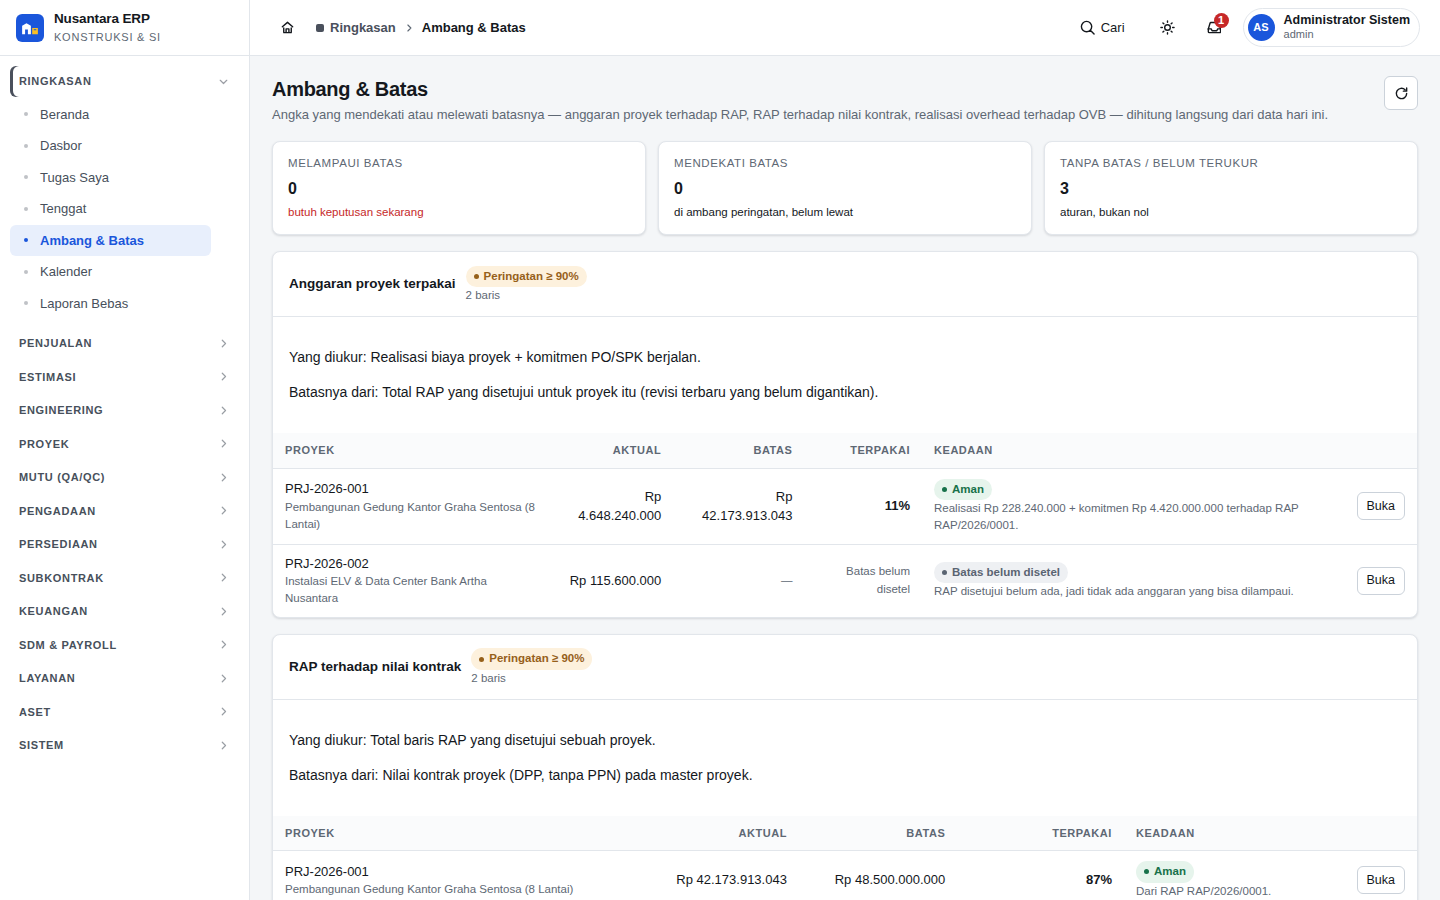
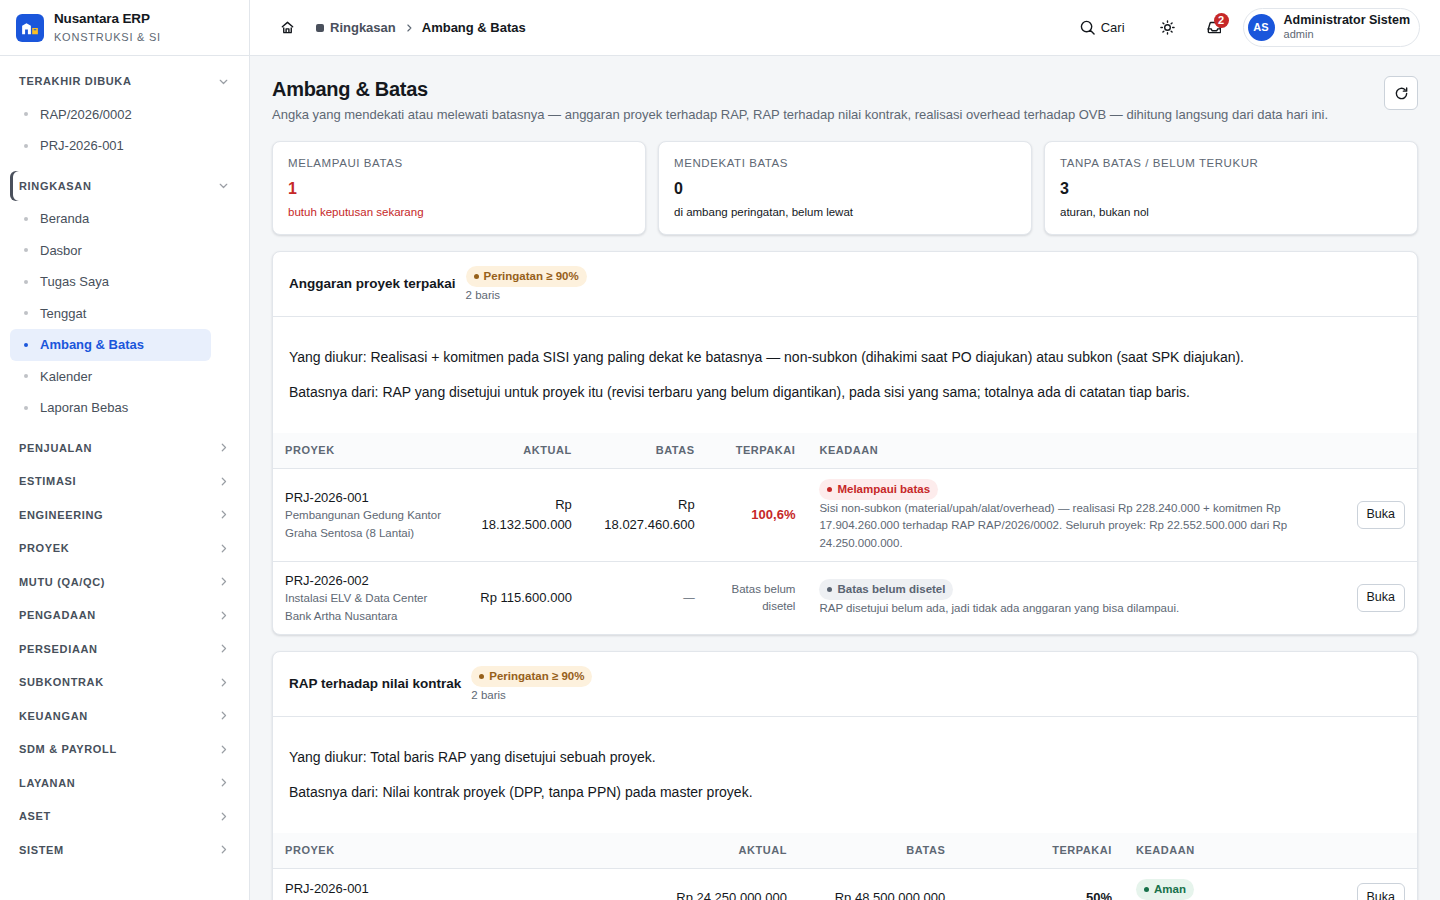
harness: S29 dijalankan ulang di peramban atas perbaikan putaran ini — 25/25 dan 3/3, dengan dua syarat yang kini menggerbangi keadaan yang benar (verifikasi F-2, 7 Sep 2026)
Dijalankan php -S port 8125 atas SALINAN CORETAN data demo (disalin lalu
dimigrasikan; database/database.sqlite tidak disentuh), Chromium 1440x900 dan
390x844. S29 22 -> 25 syarat, S29m 3/3, keduanya hijau; hasil DIGABUNG PER
KUNCI ke results-phase-2.json (12 kunci, S1..S11 dan S28 tetap utuh).

Dua syarat lama mengukur keadaan yang sudah tidak benar lagi:
- "the_portfolio_row_prints_the_remaining_the_gate_enforces" mencari "31,12 M";
  baris itu kini mencetak rupiah penuh, dan syaratnya mencari
  "PO Rp 31.123.865.391" — persis DPP yang diterima gerbang di langkah (1).
- "the_project_screen_raises_the_warning_strip" menuntut kelas "warn"; pada
  keadaan yang dibuat harness ini sendiri totalnya 93 % (mendekati) sementara
  sisi PO sudah 100,6 %, jadi pitanya kini MERAH. Syaratnya membandingkan
  kelas pita dengan worst_state yang dilaporkan API, ditambah syarat baru
  bahwa pitanya menyebut sisi yang dihakimi gerbang.

Tiga syarat baru: no_row_ships_a_fabricated_zero, and_it_names_the_side_the_gate_judges,
the_printed_monthly_sheet_names_its_project (media cetak sungguhan).

Diukur di peramban sesudah perbaikan (data demo):
- portofolio: Sisa "Rp 37.525.673.043 · PO Rp 31.123.865.391 · SPK
  Rp 6.401.807.652"; Terpakai 40,8 % dengan "sisi SPK · total 11%";
  PRJ-2026-002 Realisasi "—" (nol baris biaya), zero_cells [] pada kedua baris
- layar proyek sesudah komitmen: ubin MERAH "100,6 % · PO melampaui
  Rp 105.039.400" dan pita merah yang membuka dengan kalimat sisi PO
[…]

diff --git a/public/app/js/views/project.js b/public/app/js/views/project.js
@@ -368,6 +368,14 @@ function budgetTileNote(budget) {
     return `${worst.document} tidak dianggarkan RAP ${budget.rap_code}`;
   }
 
+  // Sisa negatif tidak dicetak sebagai "menyisakan −Rp 105 juta": kalimat pita
+  // di bawahnya menjepit sisa ke Rp 0 (tidak pernah menjanjikan sisa negatif),
+  // dan dua angka berbeda untuk satu hal di satu layar adalah cacat yang sama
+  // yang diperbaiki paket ini. Yang dicetak adalah pelampauannya.
+  if (Number(worst.remaining) < 0) {
+    return `${worst.document} melampaui ${fmt.rupiah(Math.abs(Number(worst.remaining)))} · RAP ${budget.rap_code}`;
+  }
+
   return `${worst.document} menyisakan ${fmt.rupiah(worst.remaining)} · RAP ${budget.rap_code}`;
 }
 

diff --git a/docs/bukti-uji/harness-playwright.py b/docs/bukti-uji/harness-playwright.py
@@ -6561,7 +6561,7 @@ def s29(pg):
     status, after = api("finance/budget/projects/1", admin)
     a = after.get("data") or {}
     out["threshold_fixture"] = {"dpp": target, "submit": s_sub, "approve": s_apr}
-    out["budget_after_commitment"] = {k: a.get(k) for k in ("budget", "used", "pct", "state")}
+    out["budget_after_commitment"] = {k: a.get(k) for k in ("budget", "used", "pct", "state", "worst_side", "worst_state")}
 
     # (6) PERINGATAN DI TEMPAT UANGNYA DIBELANJAKAN — layar proyek…
     pg.goto(BASE + "#/d/projects/1")
@@ -6609,8 +6609,11 @@ def s29(pg):
         "the_refusal_names_the_same_remaining": (
             "31.123.865.391" in (out["gate"]["over_limit_message"] or "")),
         # Kolom "Sisa" membawa TOTAL-nya, dan di bawahnya kedua sisi yang
-        # benar-benar dihakimi gerbang — angka PO yang diterima di atas.
-        "the_portfolio_row_prints_the_remaining_the_gate_enforces": any("31,12 M" in c for c in cells),
+        # benar-benar dihakimi gerbang — dalam RUPIAH PENUH, angka PO yang
+        # diterima di atas apa adanya (format ringkas membulatkan KE ATAS, dan
+        # sebuah plafon yang dibulatkan ke atas adalah janji yang ditolak).
+        "the_portfolio_row_prints_the_remaining_the_gate_enforces": any(
+            "PO Rp 31.123.865.391" in c for c in cells),
         "the_portfolio_row_names_the_governing_rap": any("RAP/2026/0001" in c for c in cells),
         # Proyek TANPA RAP disetujui tidak boleh punya satu pun angka anggaran:
         # RAP, Sisa dan Terpakai harus digaris, tidak pernah "Rp 0".
@@ -6661,8 +6664,17 @@ def s29(pg):
             out["threshold_fixture"]["submit"] == 200 and out["threshold_fixture"]["approve"] == 200),
         "the_project_screen_carries_the_budget_tile": (
             out["project_screen"]["budget_tile"] is not None),
+        # Pita peringatan menyala menurut SISI TERBURUK, bukan menurut total:
+        # pada keadaan yang dibuat harness ini totalnya 93 % (mendekati)
+        # sementara sisi PO sudah lewat 100 %, dan pita kuning di atas proyek
+        # yang setiap PO-nya ditolak adalah alarm yang berbohong tenang.
         "the_project_screen_raises_the_warning_strip": (
-            out["project_screen"]["warning"] is not None and "warn" in (out["project_screen"]["warning_class"] or "")),
+            out["project_screen"]["warning"] is not None
+            and ("error" if out["budget_after_commitment"]["worst_state"] == "lampau" else "warn")
+            in (out["project_screen"]["warning_class"] or "")),
+        "and_it_names_the_side_the_gate_judges": (
+            "non-subkon" in (out["project_screen"]["warning"] or "")
+            and "PO menyisakan" in (out["project_screen"]["warning"] or "")),
         "the_po_form_warns_before_a_single_line_is_typed": any(
             "terpakai" in t for t in note_texts),
         "the_po_form_note_is_coloured_at_the_threshold": any(
